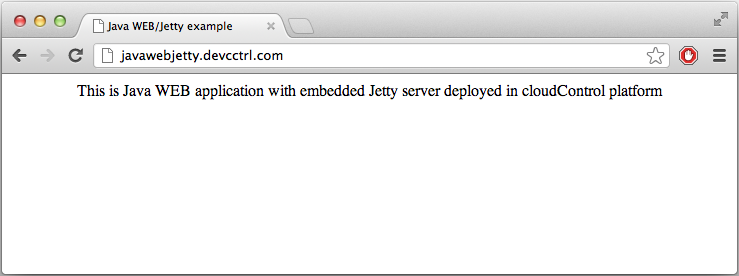
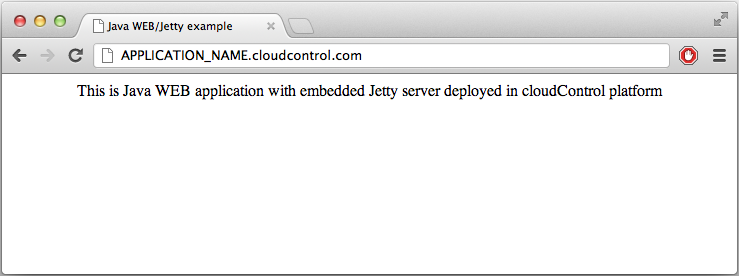
replace example app name with placeholder

Changed region(s): [[0.1556, 0.1739, 0.498, 0.2319], [0.8714, 0.1739, 0.9026, 0.2319]]

diff --git a/Guides/Java/Jetty 6.1.26.md b/Guides/Java/Jetty 6.1.26.md
@@ -14,14 +14,6 @@ In this tutorial, we're going to take you through deploying Java WEB application
 
 You're going to need only a few things to following along with this tutorial. These are:
 
- * A [Git client](http://git-scm.com/), whether command-line or GUI. If you're a GUI fan, there are some excellent options available. These include:
-   * [GitX](http://gitx.frim.nl/)
-   * [Github for Mac](http://mac.github.com/)
-   * [Github for Windows](http://windows.github.com/)
-   * [Gitbox](http://www.gitboxapp.com/)
-   * [git-cola](http://git-cola.github.com/)
-   * [Tower](http://www.git-tower.com/)
-   * [TortoiseGit](http://code.google.com/p/gitextensions/)
  * A [J2SE JDK/JVM](http://www.oracle.com/technetwork/java/javase/downloads/index.html)
  * A [Maven3](http://maven.apache.org/download.html)
  * A cloudControl client - `easy_install cctrl` or `pip install cctrl`
@@ -38,7 +30,7 @@ Execute:
  	mvn archetype:generate \
 		-DarchetypeGroupId=org.apache.maven.archetypes \
 		-DgroupId=com.cloudcontrol.example \
-		-DartifactId=javawebjetty
+		-DartifactId=APPLICATION_NAME
 		
 This should create given project structure (You can get rid of test directories since we will not use them):
 
@@ -52,7 +44,7 @@ This should create given project structure (You can get rid of test directories 
     	
     	<modelVersion>4.0.0</modelVersion>
     	<groupId>com.cloudcontrol.example</groupId>
-    	<artifactId>javawebjetty</artifactId>
+    	<artifactId>APPLICATION_NAME</artifactId>
     	<version>1.0-SNAPSHOT</version>
     	<dependencies>
         	<dependency>
@@ -166,7 +158,7 @@ This should create given project structure (You can get rid of test directories 
 
 * #####Create application: 
 
-	`cctrlapp javawebjetty create java`		
+	`cctrlapp APPLICATION_NAME create java`		
 
 * #####Create Procfile in project root directory specyfing start command:
 
@@ -178,21 +170,21 @@ This should create given project structure (You can get rid of test directories 
 
 * #####Push code to cloudControl: 
 
-	`cctrlapp javawebjetty/master push`
+	`cctrlapp APPLICATION_NAME/master push`
 
 * #####Deploy application: 
 
-	`cctrlapp javawebjetty/default deploy`
+	`cctrlapp APPLICATION_NAME/default deploy`
 
 * #####Check deployment details: 
 
-	`cctrlapp javawebjetty/default details`
+	`cctrlapp APPLICATION_NAME/default details`
 
 		Deployment
- 			name: javawebjetty/default
+ 			name: APPLICATION_NAME/default
  			stack: pinky
- 			branch: ssh://javawebjetty@devcctrl.com/repository.git
- 			private files: sftp://dep8dqw34vx@devcctrl.com/
+ 			branch: ssh://APPLICATION_NAME@cloudcontrol.com/repository.git
+ 			private files: sftp://dep8dqw34vx@cloudcontrol.com/
  			last modified: 2012-09-27 11:27:38
  			current version: ddb81c1c510d9c845492d2322a6bdc1cfaba4bdc
  			current state: deployed
@@ -201,11 +193,11 @@ This should create given project structure (You can get rid of test directories 
  
 * #####Show aliases:
  
- 	`cctrlapp javawebjetty/default alias`
+ 	`cctrlapp APPLICATION_NAME/default alias`
  
  		Aliases
  		name                                                         default  verified
- 		javawebjetty.devcctrl.com                                           1        1
+ 		APPLICATION_NAME.cloudcontrol.com                                  1         1
  
 * #####Test it
 
@@ -216,7 +208,7 @@ This should create given project structure (You can get rid of test directories 
 
 * #####Deploy logs:
 
-	`cctrlapp javawebjetty/default log deploy`
+	`cctrlapp APPLICATION_NAME/default log deploy`
 
 		[Thu Sep 27 12:10:23 2012] lxc-dev-136 INFO Deploying ...
 		[Thu Sep 27 12:10:35 2012] lxc-dev-136 INFO Deployed version: f2b73a2d941a67ad5a2e2a400b9b88cc665caf6f
@@ -225,14 +217,14 @@ This should create given project structure (You can get rid of test directories 
 		
 * #####Access logs:
 
-	`cctrlapp javawebjetty/default log access`
+	`cctrlapp APPLICATION_NAME/default log access`
 	
 		178.19.208.122 - - [27/Sep/2012:12:11:37 +0000] "GET http://javawebjetty.devcctrl.com/ HTTP/1.1" 200 39 "" "Mozilla/5.0 		(Macintosh; Intel Mac OS X 10_8_0) AppleWebKit/537.4 (KHTML, like Gecko) Chrome/22.0.1229.79 Safari/537.4"
 		178.19.208.122 - - [27/Sep/2012:12:11:37 +0000] "GET http://javawebjetty.devcctrl.com/favicon.ico HTTP/1.1" 200 39 ""		"Mozilla/5.0 (Macintosh; Intel Mac OS X 10_8_0) AppleWebKit/537.4 (KHTML, like Gecko) Chrome/22.0.1229.79 Safari/537.4" 
 		
 * #####Error / Application logs:
 
-	`cctrlapp javawebjetty/default log error`
+	`cctrlapp APPLICATION_NAME/default log error`
 	
 		[Thu Sep 27 12:10:37 2012] info 2012-09-27 12:10:37.914:INFO:oejs.Server:jetty-7.6.0.v20120127
 		[Thu Sep 27 12:10:38 2012] info 2012-09-27 12:10:38.066:INFO:oejsh.ContextHandler:started o.e.j.s.ServletContextHandler{/,null}
